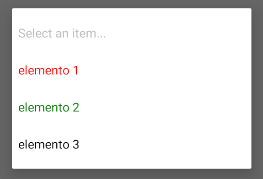
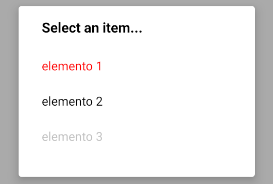
Updated docs of component

Changed region(s): [[0.0, 0.0, 1.0, 1.0], [0.365, 0.7263, 0.3954, 0.7542]]

diff --git a/docs/components/picker.md b/docs/components/picker.md
@@ -1,19 +1,18 @@
 ### PICKER
 
-Este componente añade una capa controladora al componente [React Native Picker Select](https://www.npmjs.com/package/react-native-picker-select).
+Este componente permite al usuario seleccionar uno o más elementos de entre varios.
 
 ```jsx
-<Picker initialValue={'2'}
+<Picker initialValue={'2'} placeholder={'Selecciona un elemento...'}
 		data={[
 			{label: 'elemento 1', value: '1', color: 'red'},
-			{label: 'elemento 2', value: '2', color: 'green'},
-			{label: 'elemento 3', value: '3'}
+			{label: 'elemento 2', value: '2'},
+			{label: 'elemento 3', value: '3', disabled: true}
 		]}
-		placeholder={'Selecciona un elemento...'}
 		onValueChange={(value) => alert('valor: ' + value)}/>
 ```
-![comp_picker_example_0](../assets/2_PROTOTYPE/comp_picker/comp_picker_example_0.png)
-![comp_picker_example_1](../assets/2_PROTOTYPE/comp_picker/comp_picker_example_1.png)
+![comp_picker_example](../assets/2_PROTOTYPE/comp_picker/comp_picker_example.png)
+![comp_picker_example_open](../assets/2_PROTOTYPE/comp_picker/comp_picker_example_open.png)
 
 **Propiedades**
 -
@@ -23,21 +22,23 @@ Este componente añade una capa controladora al componente [React Native Picker 
 Define los elementos que se van a mostrar en el componente.
 <br>
 Recibe un `array` de `object` => `{ label: String, value: String, color : String }`
-```jsx
-<Picker data={[
-			{label: 'elemento 1', value: '1', color: 'red'},
-			{label: 'elemento 2', value: '2', color: 'green'},
-			{label: 'elemento 3', value: '3'}
-		]}/>
-```
-![comp_picker_data](../assets/2_PROTOTYPE/comp_picker/comp_picker_data.png)
-![comp_picker_data_open](../assets/2_PROTOTYPE/comp_picker/comp_picker_data_open.png)
-
-<div style="page-break-after: always;"></div>
 
 - `label` : texto que se va a mostrar (required)
 - `value` : valor que tiene el elemento (required)
 - `color` : indica el color de texto del `label` (optional)
+- `disabled` : indica si el elemento es clickable o no (optional)
+
+<div style="page-break-after: always;"></div>
+
+```jsx
+<Picker data={[
+			{label: 'elemento 1', value: '1', color: 'red'},
+			{label: 'elemento 2', value: '2'},
+			{label: 'elemento 3', value: '3', disabled: true}
+		]}/>
+```
+![comp_picker_data](../assets/2_PROTOTYPE/comp_picker/comp_picker_data.png)
+![comp_picker_data_open](../assets/2_PROTOTYPE/comp_picker/comp_picker_data_open.png)
 
 **`initialValue ( optional )`**
 
@@ -47,29 +48,41 @@ Recibe un `string`
 ```jsx
 <Picker data={[
 			{label: 'elemento 1', value: '1', color: 'red'},
-			{label: 'elemento 2', value: '2', color: 'green'},
-			{label: 'elemento 3', value: '3'}
+			{label: 'elemento 2', value: '2'},
+			{label: 'elemento 3', value: '3', disabled: true}
 		]}
 		initialValue={'2'}/>
 ```
 ![comp_picker_initialValue](../assets/2_PROTOTYPE/comp_picker/comp_picker_initialValue.png)
 
-**`placeholder ( optional )`**
-
-Define el placeholder que tendrá el componente.
-<br>
-Recibe un `array` de objectos => `{ label: String, value: String, color : String }`
+&#9888; Si `multiple = true`, entonces la propiedad recibe  un `Array[string]`
 ```jsx
 <Picker data={[
 			{label: 'elemento 1', value: '1', color: 'red'},
-			{label: 'elemento 2', value: '2', color: 'green'},
-			{label: 'elemento 3', value: '3'}
+			{label: 'elemento 2', value: '2'},
+			{label: 'elemento 3', value: '3', disabled: true}
+		]}
+		multiple={true}
+		initialValue={['1','2']}/>
+```
+![comp_picker_initialValue_multiple](../assets/2_PROTOTYPE/comp_picker/comp_picker_initialValue_multiple.png)
+
+
+**`placeholder ( optional )`**
+
+Define el placeholder que tendrá el componente. También hace la función de título del diálogo.
+<br>
+Recibe un `string`
+```jsx
+<Picker data={[
+			{label: 'elemento 1', value: '1', color: 'red'},
+			{label: 'elemento 2', value: '2'},
+			{label: 'elemento 3', value: '3', disabled: true}
 		]}
 		placeholder={'Selecciona un elemento...'}/>
 ```
 ![comp_picker_placeholder](../assets/2_PROTOTYPE/comp_picker/comp_picker_placeholder.png)
-
-<div style="page-break-after: always;"></div>
+![comp_picker_placeholder](../assets/2_PROTOTYPE/comp_picker/comp_picker_placeholder_open.png)
 
 **`error ( optional )`**
 
@@ -79,16 +92,50 @@ Recibe un `bool`. Por defecto es valor es `false`
 ```jsx
 <Picker data={[
 			{label: 'elemento 1', value: '1', color: 'red'},
-			{label: 'elemento 2', value: '2', color: 'green'},
-			{label: 'elemento 3', value: '3'}
+			{label: 'elemento 2', value: '2'},
+			{label: 'elemento 3', value: '3', disabled: true}
 		]}
 		error={true}/>
 ```
 ![comp_picker_error](../assets/2_PROTOTYPE/comp_picker/comp_picker_error.png)
 
-**`enabled ( optional )`**
+<div style="page-break-after: always;"></div>
 
-Indica si el componente está habilitado o no.
+**`multiple ( optional )`**
+
+Indica si el componente permite seleccionar varios elementos o no.
+<br>
+Recibe un `bool`. Por defecto el valor es `false`
+```jsx
+<Picker data={[
+			{label: 'elemento 1', value: '1', color: 'red'},
+			{label: 'elemento 2', value: '2'},
+			{label: 'elemento 3', value: '3', disabled: true}
+		]}
+		multiple={true} initialValue={['1', '2']}/>
+```
+![comp_picker_multiple](../assets/2_PROTOTYPE/comp_picker/comp_picker_multiple.png)
+
+**`textExit ( optional )`**
+
+Indica el texto del botón cuando `multiple = true`.
+<br>
+Recibe un `string`
+```jsx
+<Picker data={[
+			{label: 'elemento 1', value: '1', color: 'red'},
+			{label: 'elemento 2', value: '2'},
+			{label: 'elemento 3', value: '3', disabled: true}
+		]}
+		textExit={'Seleccionar'} multiple={true} initialValue={['1', '2']}/>
+```
+![comp_picker_textExit](../assets/2_PROTOTYPE/comp_picker/comp_picker_textExit.png)
+
+<div style="page-break-after: always;"></div>
+
+**`disabled ( optional )`**
+
+Indica si el componente está deshabilitado o no.
 <br>
 Recibe un `bool`. Por defecto es valor es `false`
 
@@ -100,8 +147,8 @@ Recibe un parámetro `value : String` que indica el nuevo valor del componente (
 ```jsx
 <Picker data={[
 			{label: 'elemento 1', value: '1', color: 'red'},
-			{label: 'elemento 2', value: '2', color: 'green'},
-			{label: 'elemento 3', value: '3'}
+			{label: 'elemento 2', value: '2'},
+			{label: 'elemento 3', value: '3', disabled: true}
 		]}
 		onValueChange={(value) => alert('valor: ' + value)}/>
 ```
@@ -114,5 +161,6 @@ Recibe un `View.style`
 - No se pueden aplicar estilos a los elementos del componente
 - No se pueden cambiar los estilos del error
 - No se puede cambiar el diálogo de selección
+- No se puede cambiar los estilos del botón de seleccionar cuando `multiple = true`
 
 <div style="page-break-after: always;"></div>

diff --git a/docs/components/step-picker.md b/docs/components/step-picker.md
@@ -1,0 +1,67 @@
+### STEP PICKER	
+
+Este componente permite al usuario interactuar con un elemento en la pantalla.
+
+```jsx
+<StepPicker data={[{label: '1'}, {label: '2'}, {label: '3'}]}
+			initialValue={1}
+			cyclic={true} onCycleChange={() => alert('Ciclo cambiado')}
+			onValueChange={(value) => alert('valor: ' + value)}/>
+```
+![comp_stepPicker_example](../assets/2_PROTOTYPE/comp_stepPicker/comp_stepPicker_example.png)
+
+**Propiedades**
+-
+
+**`data ( required )`**
+
+Define el texto que va a tener el botón.
+<br>
+Recibe un `array` de `object` => `{ label: String }`
+
+- `label` : texto que se muestra en el componente (required)
+- Se pueden añadir tantas propiedades como se quiera
+
+```jsx
+<StepPicker data={[{label: '1'}, {label: '2'}, {label: '3'}]}/>
+```
+![comp_stepPicker_data](../assets/2_PROTOTYPE/comp_stepPicker/comp_stepPicker_data.png)
+
+<div style="page-break-after: always;"></div>
+
+**`initialValue ( optional )`**
+
+Define el elemento seleccionado por defecto cuando se monta el componente. Selecciona el elemento cuyo índice corresponda con esta propiedad.
+<br>
+Recibe un `number`. Por defecto el valor es `0`
+```jsx
+<StepPicker data={[{label: '1'}, {label: '2'}, {label: '3'}]}
+			initialValue={1}/>
+```
+![comp_stepPicker_initialValue](../assets/2_PROTOTYPE/comp_stepPicker/comp_stepPicker_example.png)
+
+**`cyclic ( optional )`**
+
+Indica si el componente permite un scroll infinito.
+<br>
+Recibe un `bool`. Por defecto es valor es `true`
+
+**`onCycleChange ( optional )`**
+
+Función llamada cuando el componente completa un ciclo. Sólo se aplica cuando `cyclic = true`.
+```jsx
+<StepPicker data={[{label: '1'}, {label: '2'}, {label: '3'}]}
+			cyclic={true} onCycleChange={() => alert('Ciclo cambiado')}/>
+```
+
+**`onValueChange ( optional )`**
+
+Función llamada cuando el valor ha cambiado.
+<br>
+Recibe un parámetro `value` que representa el valor seleccionado `data prop`
+```jsx
+<StepPicker data={[{label: '1'}, {label: '2'}, {label: '3'}]}
+			onValueChange={(value) => alert('valor: ' + value)}/>
+```
+
+<div style="page-break-after: always;"></div>

diff --git a/docs/components/dialog.md b/docs/components/dialog.md
@@ -65,4 +65,23 @@ Especifica si el componente es visible o no.
 <br>
 Recibe un `bool`. Por defecto el valor es `false`
 
+**`loading ( optional )`**
+
+Indica si el diálogo está cargando o no.
+<br>
+Recibe un `bool`. Por defecto el valor es `false`
+
+<div style="page-break-after: always;"></div>
+
+**`onClickExit ( optional )`**
+
+Función llamada cuando el usuario pulsa fuera del diálogo.
+```jsx
+<Dialog title={'Diálogo'} visible={true}
+		buttons={() => <Button label={'Aceptar'} backgroundColor={'#FF0000'} textColor={'#FFFFFF'}/>}
+		content={() => <Text>Contenido</Text>}
+		onClickExit={() => alert('Diálogo pulsado')}/>
+```
+
+
 <div style="page-break-after: always;"></div>

diff --git a/docs/components/list-item.md b/docs/components/list-item.md
@@ -37,6 +37,16 @@ Recibe un `View.style`
 
 <div style="page-break-after: always;"></div>
 
+**`containerStyle ( optional )`**
+
+Define los estilos del contenedor del título y los subtítulos.
+<br>
+Recibe un `View.style`
+```jsx
+<ListItem title={'título'} containerStyle={{paddingHorizontal: 0}}/>
+```
+![comp_listItem_containerStyle](../assets/2_PROTOTYPE/comp_listItem/comp_listItem_containerStyle.png)
+
 **`subtitle ( optional )`**
 
 Define el subtítulo que va a tener el componente. Puede ser una pequeña descripción.

diff --git a/docs/components/calendar-picker.md b/docs/components/calendar-picker.md
@@ -1,6 +1,6 @@
 ### CALENDAR PICKER
 
-Este componente es una especialización del componente [React native Calendars](https://www.npmjs.com/package/react-native-calendars) que, junto con el componente [Calendar Day](calendar-day.md), permite al usuario seleccionar rangos de fechas.
+Este componente es una especialización del componente [React native Calendars](https://www.npmjs.com/package/react-native-calendars) que permite al usuario seleccionar rangos de fechas.
 
 &#9888; **IMPORTANTE**
 <br>
